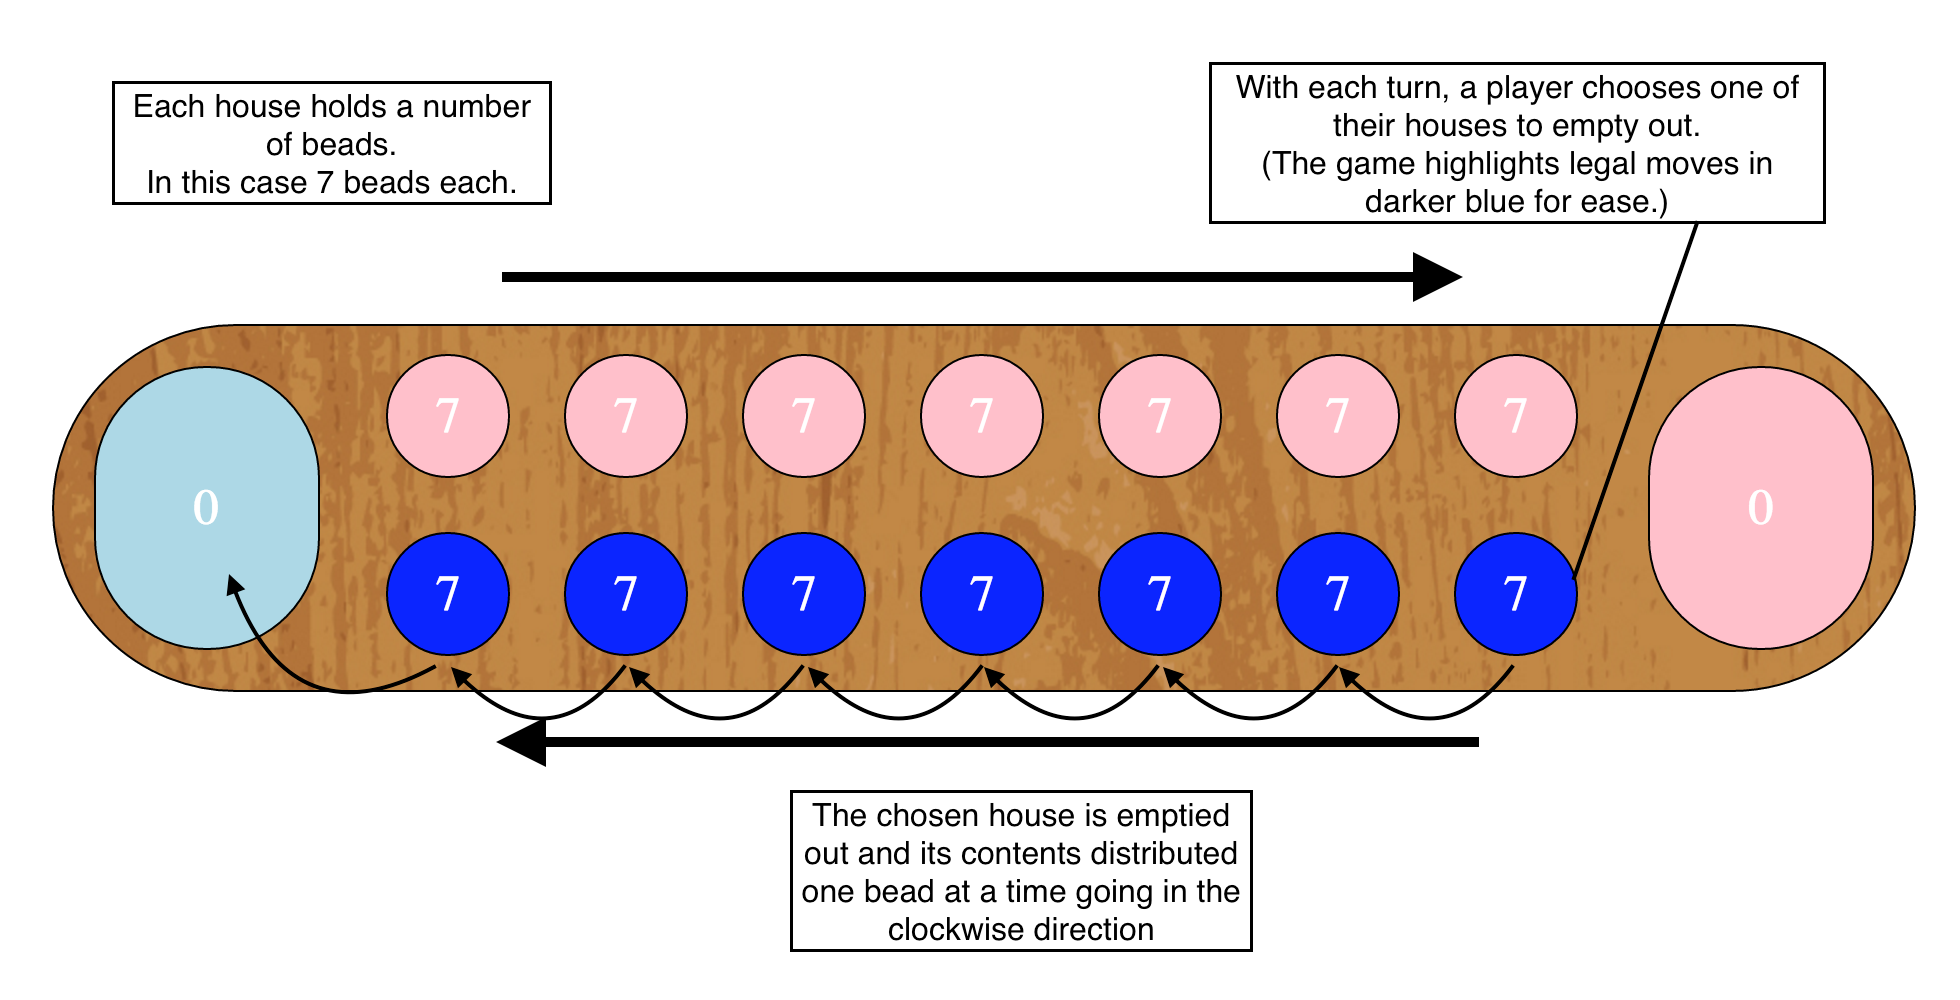
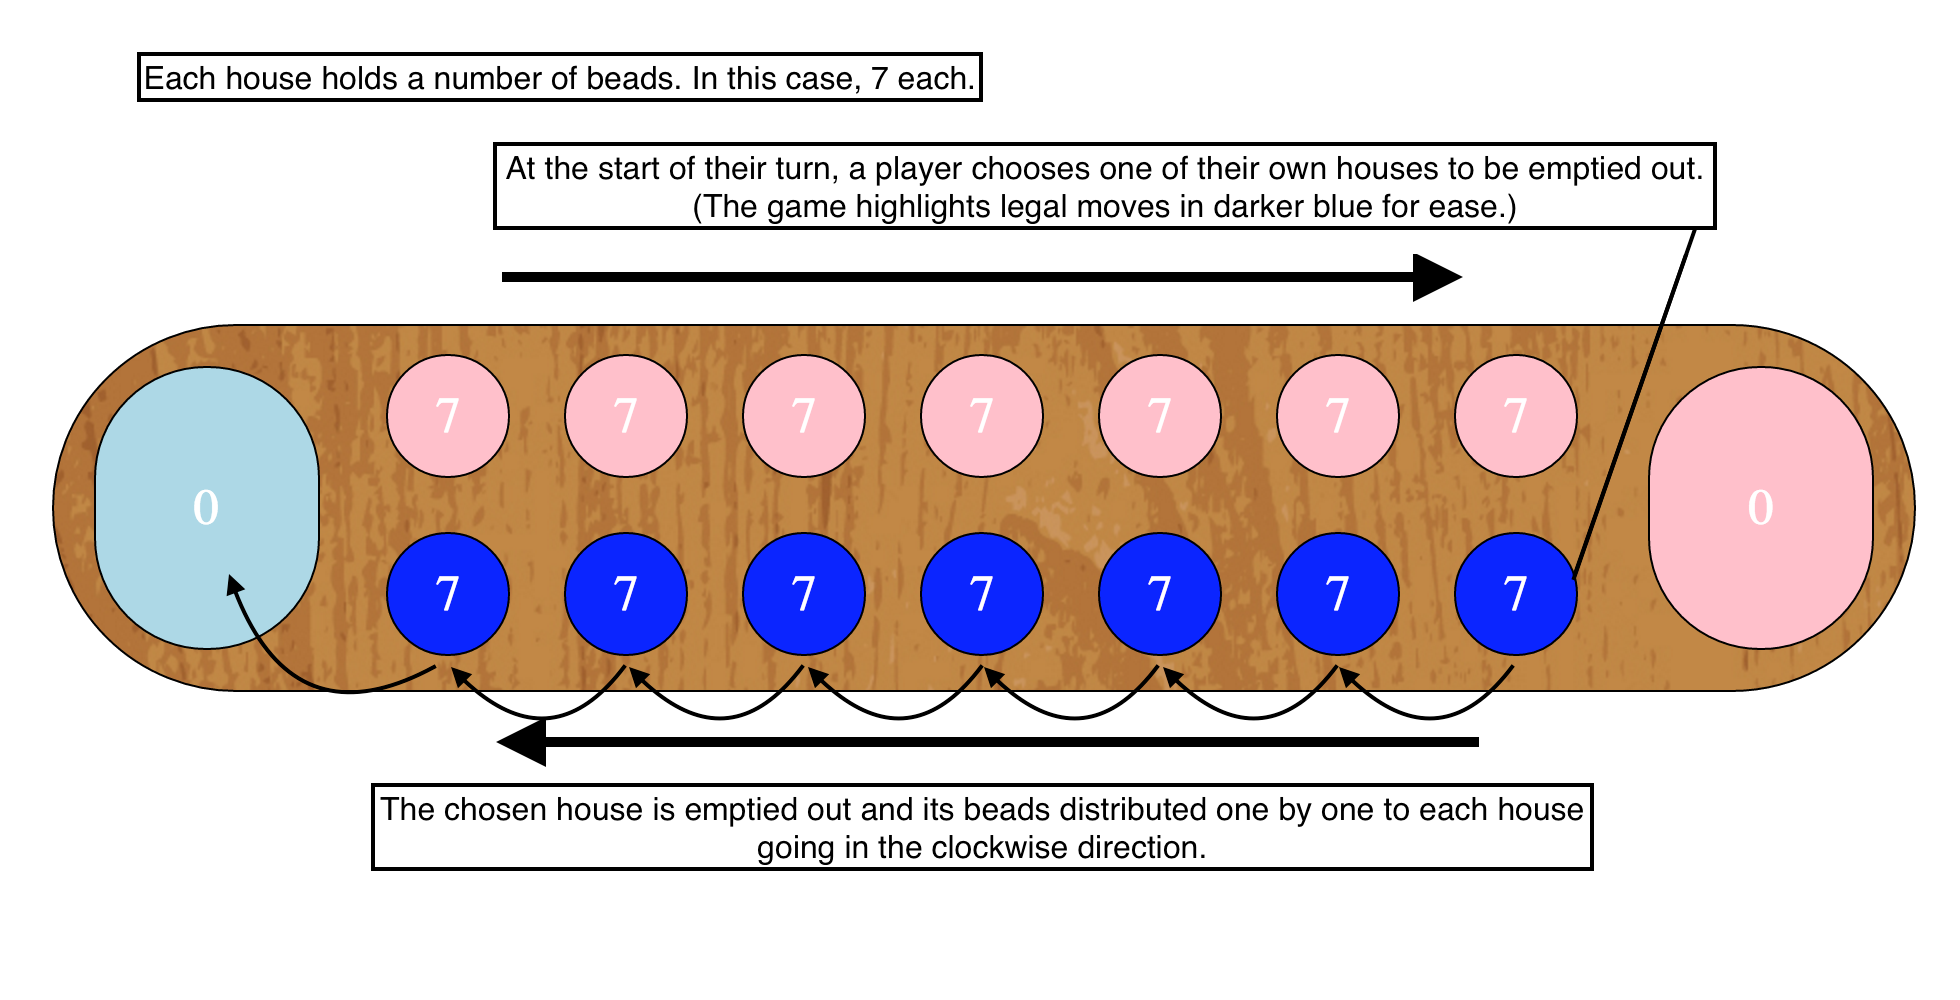
Added localStorage support, fixed tutorial for different screen sizes.

Changed region(s): [[0.0622, 0.031, 0.9337, 0.248], [0.1867, 0.775, 0.8092, 0.961]]

diff --git a/script.js b/script.js
@@ -101,21 +101,38 @@ Stats.prototype.addTurn = function(){
 	if(this.turns > this.maxTurn){
 		this.maxTurn = this.turns;
 	}
+	this.store();
 	this.update();
 }
 Stats.prototype.addMaxScore = function(x){
 	if(x > this.maxScore){
 		this.maxScore = x;
 	}
+	this.store();
 	this.update();
 }
 Stats.prototype.addMaxBonus = function(x){
 	if(x > this.maxBonus){
 		this.maxBonus = x;
 	}
+	this.store();
 	this.update();
 }
-
+Stats.prototype.store = function(){
+	var str = this.maxStep + "," + this.maxTurn + "," + this.maxScore + "," + this.maxBonus;
+	localStorage.setItem(this.player,str);
+}
+Stats.prototype.retrieve = function(){
+	if(localStorage.getItem(this.player) != null){
+		var str = localStorage.getItem(this.player);
+		var strSplit = str.split(",",4);
+		this.maxStep = parseInt(strSplit[0],10);
+		this.maxTurn = parseInt(strSplit[1],10);
+		this.maxScore = parseInt(strSplit[2],10);
+		this.maxBonus = parseInt(strSplit[3],10);
+		this.update();
+	}
+}
 
 var player1Stats = new Stats("player1", 0, 0, 0, 0);
 var player2Stats = new Stats("player2", 0, 0, 0, 0);
@@ -179,6 +196,8 @@ var modalPrev = document.getElementById("modal_previous_position");
 var modalNext = document.getElementById("modal_next_position");
 var modalClose = document.getElementById("modal_close_position");
 
+var optedOut;
+
 /*------------------------------------------------------------------------*/
 /*-------------------- EVENT HANLDERS --------------------*/
 /*------------------------------------------------------------------------*/
@@ -205,6 +224,8 @@ var modalHandler = document.getElementById("div_modal");
 modalHandler.addEventListener("click", function(){  /* debug code */ if(debug){console.log(event.target.id + " clicked");}
 	handleModal(event);
 });
+
+var optOutCheck = document.getElementsByClassName("checkbox");
 
 // Actual handler
 var handler = function(event){ /* debug code */ if(debug){console.log("handler()");}
@@ -301,6 +322,16 @@ var handleModal = function(){
 	else if (event.target.id === "modal_close"){
 		modalHandler.classList.toggle("hidden");
 	}
+	else if (event.target.id === "modal_opt_out"){
+		optedOut = !optedOut;
+		if(optedOut){
+			optOutCheck[0].className = "checkbox fa fa-check-square-o";
+			localStorage.optedOut = "true";
+		} else {
+			optOutCheck[0].className = "checkbox fa fa-square-o";
+			localStorage.optedOut = "false";
+		}
+	}
 
 	if (modalPage === 1){
 		modalPrev.className = "hidden";
@@ -313,7 +344,27 @@ var handleModal = function(){
 		modalNext.className = "";
 	}
 }
+/*------------------------------------------------------------------------*/
+/*-------------------- LOCAL STORAGE FUNCTIONS --------------------*/
+/*------------------------------------------------------------------------*/
+var initializeTutorial = function(){
+	if(localStorage.optedOut === "true"){
+		optedOut = true;
+		modalHandler.className = "hidden";
+		optOutCheck[0].className = "checkbox fa fa-check-square-o";
+	}
+	else {
+		optedOut = false;
+		modalHandler.className = "";
+		optOutCheck[0].className = "checkbox fa fa-square-o";
+	}
+}
 
+var retrieveStats = function(){
+	player1Stats.retrieve();
+	player2Stats.retrieve();
+	computerStats.retrieve();
+}
 
 /*------------------------------------------------------------------------*/
 /*-------------------- MAIN GAMEPLAY FUNCTIONS --------------------*/
@@ -324,6 +375,7 @@ var emptyHand = function(){ /* debug code */ if(debug){console.log("--Calling Fu
 	var currentStoreIndex;
 	var inOwnSide;
 	var isTurnEnd = true;
+	addMaxScoreCurrentPlayer();
 	if(isPlayerTurn) {
 		currentStoreIndex = PLAYERSTOREINDEX;
 		inOwnSide = (gameboard[index].type === "playerHouse");
@@ -469,6 +521,7 @@ var step = function(){ /* debug code */ if(debug){console.log("--Calling Functio
 // function for switching between players
 var switchTurns = function(){ /* debug code */ if(debug){console.log("--Calling Function:switchTurns");}
 	isPlayerTurn = !isPlayerTurn;
+	addMaxScoreCurrentPlayer();
 	resetTurnStepCount();
 	/* debug code */ if(debug){console.log("isPlayerTurn = " + isPlayerTurn);}
 	if(isGameOver()){
@@ -575,6 +628,17 @@ var addStepCurrentPlayer = function(){
 	}
 	else {
 		player2Stats.addStep();
+	}
+}
+var addMaxScoreCurrentPlayer = function(){
+	if (isPlayerTurn){
+		player1Stats.addMaxScore(gameboard[PLAYERSTOREINDEX].beads);
+	}
+	else if (!isPlayerTurn && useComputer){
+		computerStats.addMaxScore(gameboard[ENEMYSTOREINDEX].beads);
+	}
+	else {
+		player2Stats.addMaxScore(gameboard[ENEMYSTOREINDEX].beads);
 	}
 }
 var resetTurnStepCount = function(){
@@ -822,12 +886,9 @@ var reset = function(){
 	divMessage.textContent = "Player 1, click a blue circle to make a move.";
 	allowPlayerInput();
 }
+
+// Initialize
+initializeTutorial();
 allowPlayerInput();
-
-
-
-
-
-
-
+retrieveStats();
 

diff --git a/index.html b/index.html
@@ -7,7 +7,7 @@
 </head>
 <body>
   <!-- Start Horizontal version -->
-  <div id="div_modal" class="hidden">
+  <div id="div_modal">
     <img id="modal_img" src="ToDo1.png"/>
     <div id="modal_close_position">
       <div>
@@ -20,6 +20,9 @@
         <i id="modal_previous" class="fa fa-arrow-circle-left"></i>
         <p id="modal_previous" class="small">Previous</p>
       </div>
+    </div>
+    <div id="modal_opt_out_position">
+      <h4 id="modal_opt_out"><i id="modal_opt_out" class="fa fa-square-o checkbox"></i>Do not show this guide again.</h4>
     </div>
     <div>
       <div id="modal_next_position">
@@ -66,7 +69,7 @@
         <h3>Player 1</h3>
         <ul id="player1_stats">
           <li>Continuous Steps: 0 - Max: 0</li>
-          <li>Chained Turns: 0 - Max: </li>
+          <li>Chained Turns: 0 - Max: 0</li>
           <li>Max Bonus: 0</li>
           <li>Max Score: 0</li>
         </ul>
@@ -75,7 +78,7 @@
         <h3>Player 2</h3>
         <ul id="player2_stats">
           <li>Continuous Steps: 0 - Max: 0</li>
-          <li>Chained Turns: 0 - Max: </li>
+          <li>Chained Turns: 0 - Max: 0</li>
           <li>Max Bonus: 0</li>
           <li>Max Score: 0</li>
         </ul>
@@ -84,7 +87,7 @@
         <h3>Computer</h3>
         <ul id="computer_stats">
           <li>Continuous Steps: 0 - Max: 0</li>
-          <li>Chained Turns: 0 - Max: </li>
+          <li>Chained Turns: 0 - Max: 0</li>
           <li>Max Bonus: 0</li>
           <li>Max Score: 0</li>
         </ul>

diff --git a/style.css b/style.css
@@ -57,6 +57,19 @@ img {
 	margin: 0;
 }
 
+#modal_opt_out_position {
+	display: inline;
+	position: fixed;
+	bottom: 0;
+	bottom-margin: 0;
+	left: 37%;
+	font-size: 14px;
+}
+
+.checkbox {
+	padding-right: 10px;
+}
+
 #modal_next_position {
 	display: block;
 	position: fixed;
